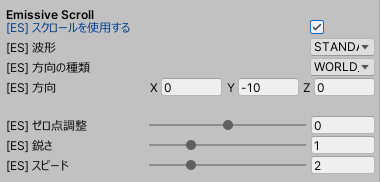
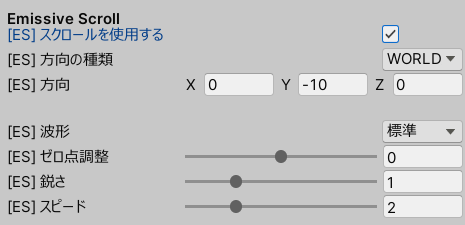
UnlitWF 2.2.0 を追加

diff --git a/docs/unlitwf/CHANGELOG.md b/docs/unlitwf/CHANGELOG.md
@@ -5,6 +5,26 @@ toc_max_heading_level: 2
 
 # Change Log
 
+## 2024-07-21 (2.2.0)
+https://github.com/whiteflare/Unlit_WF_ShaderSuite/releases/tag/UnlitWF_Shader_20240721
+
+### Added
+- Shader
+  - MainTexture 2nd 機能を追加しました。
+  - EmissiveScroll に波形グラデーションテクスチャを追加しました。
+  - EmissiveAudioLink にディレイを追加しました。
+
+### Changed
+- GUI
+  - Hierarchy右クリックの「UnlitWF Shader/マテリアルのクリンナップ」を復活させました。
+  - グラデーションマップを参照する時の縦座標を今までは 0.0 で参照していたものを 0.5 に変更しました。
+
+### Fixed
+- GUI
+  - 機能を有効化したときにデフォルトテクスチャが割り当てられない問題を修正しました。
+
+----
+
 ## 2024-06-12 (2.1.0)
 https://github.com/whiteflare/Unlit_WF_ShaderSuite/releases/tag/UnlitWF_Shader_20240612
 
